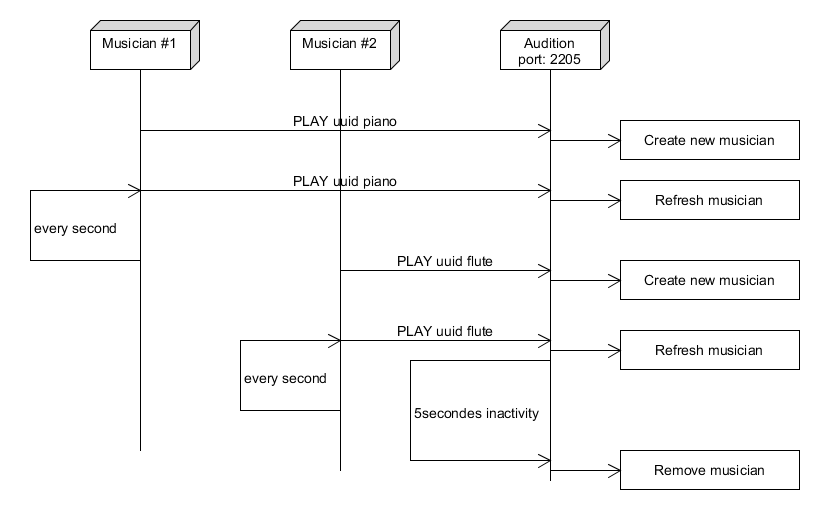
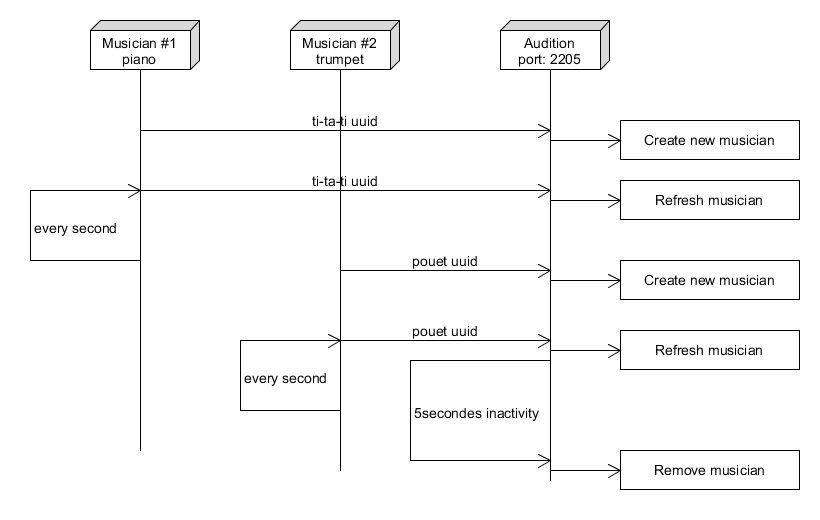
Answer questions

diff --git a/README.md b/README.md
@@ -104,7 +104,7 @@ When you connect to the TCP interface of the **Auditor**, you should receive an 
 | #  | Topic |
 | --- | --- |
 |Question | How can we represent the system in an **architecture diagram**, which gives information both about the Docker containers, the communication protocols and the commands? |
-| | *Insert your diagram here...* |
+| | ![](images\architecture_diagram.png) |
 |Question | Who is going to **send UDP datagrams** and **when**? |
 | | *The Musician Docker container, every seconds.* |
 |Question | Who is going to **listen for UDP datagrams** and what should happen when a datagram is received? |
@@ -112,7 +112,7 @@ When you connect to the TCP interface of the **Auditor**, you should receive an 
 |Question | What **payload** should we put in the UDP datagrams? |
 | | *PLAY \<UUID\> \<Instrument\>* |
 |Question | What **data structures** do we need in the UDP sender and receiver? When will we update these data structures? When will we query these data structures? |
-| | *{}* |
+| | **Reciever**<br/><br/>musicians:<br/>[<br/>  {<br/>   "uuid" : <UUID>,<br/>   "instrument" : <INSTRUMENT>,<br/>   "activeSince" : <DATETIME>,<br/>   "lastActive" : <DATETIME><br/>  },<br/>  ...<br/>]<br/><br/>soundMap:<br/>{<br/> "ti-ta-ti" : "piano",<br/> "pouet" : "trumpet",<br/> "trulu" : "flute",<br/> "gzi-gzi" : "violin",<br/> "boum-boum" : "drum"<br/>}<br/><br/>---------------------------<br/><br/>**Sender**<br/><br/>instrumentMap: <br/>{<br/>  "piano"," : "ti-ta-ti",<br/> "trumpet" : "pouet",<br/> "flute" : "trulu",<br/> "violin" : "gzi-gzi",<br/> "drum" : "boum-boum"<br/>} |
 
 
 ## Task 2: implement a "musician" Node.js application
@@ -120,21 +120,21 @@ When you connect to the TCP interface of the **Auditor**, you should receive an 
 | #  | Topic |
 | ---  | --- |
 |Question | In a JavaScript program, if we have an object, how can we **serialize it in JSON**? |
-| | *Enter your response here...*  |
+| | JSON.stringify(Object) |
 |Question | What is **npm**?  |
-| | *Enter your response here...*  |
+| | It's a package manager, taking care of the dependencies and install them in the node_modules directory. To configure it, edit the package.json file. |
 |Question | What is the `npm install` command and what is the purpose of the `--save` flag?  |
-| | *Enter your response here...*  |
+| | It will fetch all the dependencies in the packages.json, and install them. The --save flag is not used anymore, since the version 5. At the times, it was used to edit the package.json file to automatically add the dependency name you are installing under the dependencies section. |
 |Question | How can we use the `https://www.npmjs.com/` web site?  |
-| | *Enter your response here...*  |
+| | We can use it to find a package. |
 |Question | In JavaScript, how can we **generate a UUID** compliant with RFC4122? |
-| | *Enter your response here...*  |
+| | By using the "uuid" package                                  |
 |Question | In Node.js, how can we execute a function on a **periodic** basis? |
-| | *Enter your response here...*  |
+| | By using the "async" package |
 |Question | In Node.js, how can we **emit UDP datagrams**? |
-| | *Enter your response here...*  |
+| | By using the "socket.io" to send UDP datagram and the "udp-packet" to encode them. |
 |Question | In Node.js, how can we **access the command line arguments**? |
-| | *Enter your response here...*  |
+| | By using the global variable "process.argv"                  |
 
 
 ## Task 3: package the "musician" app in a Docker image
@@ -142,7 +142,7 @@ When you connect to the TCP interface of the **Auditor**, you should receive an 
 | #  | Topic |
 | ---  | --- |
 |Question | How do we **define and build our own Docker image**?|
-| | *Enter your response here...*  |
+| |                                                              |
 |Question | How can we use the `ENTRYPOINT` statement in our Dockerfile?  |
 | | *Enter your response here...*  |
 |Question | After building our Docker image, how do we use it to **run containers**?  |
@@ -176,7 +176,7 @@ When you connect to the TCP interface of the **Auditor**, you should receive an 
 | #  | Topic |
 | ---  | --- |
 |Question | How do we validate that the whole system works, once we have built our Docker image? |
-| | *Enter your response here...* |
+|  | By using the script "validation.sh".                         |
 
 
 ## Constraints
